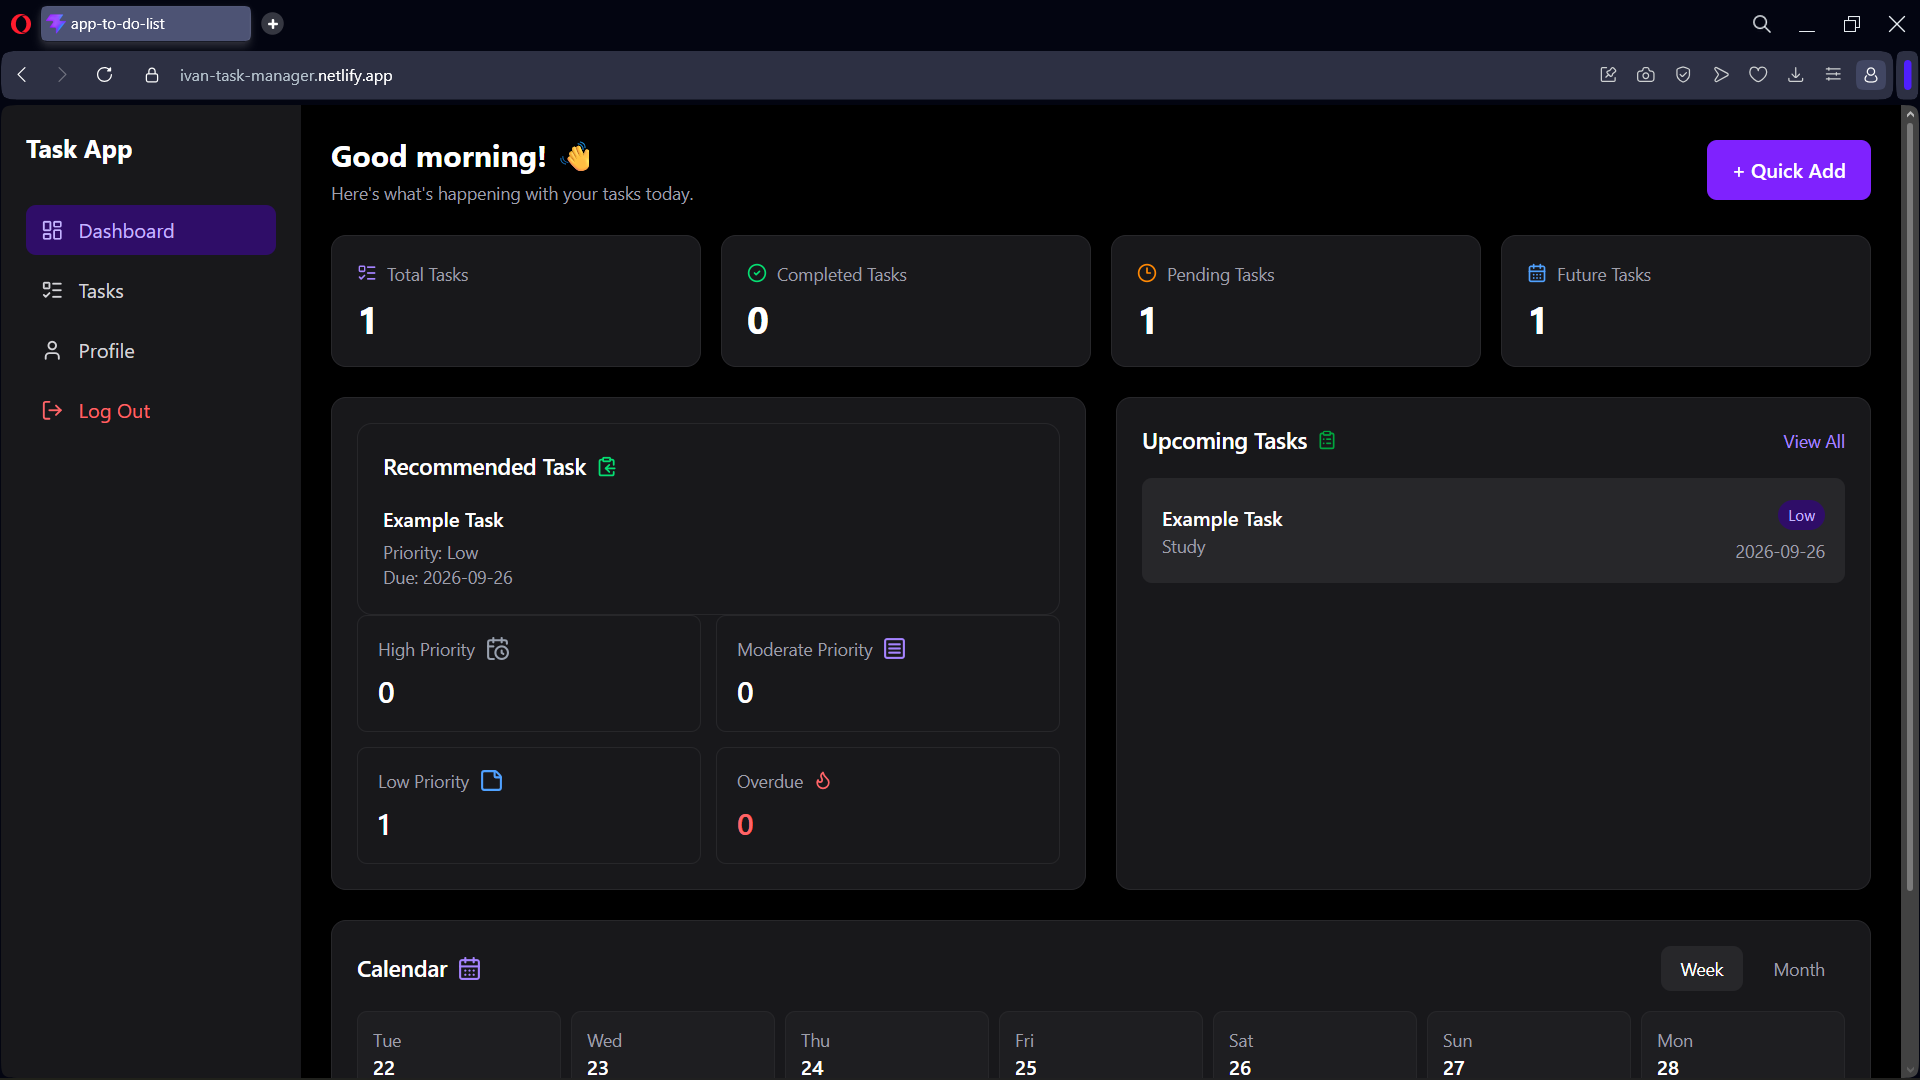
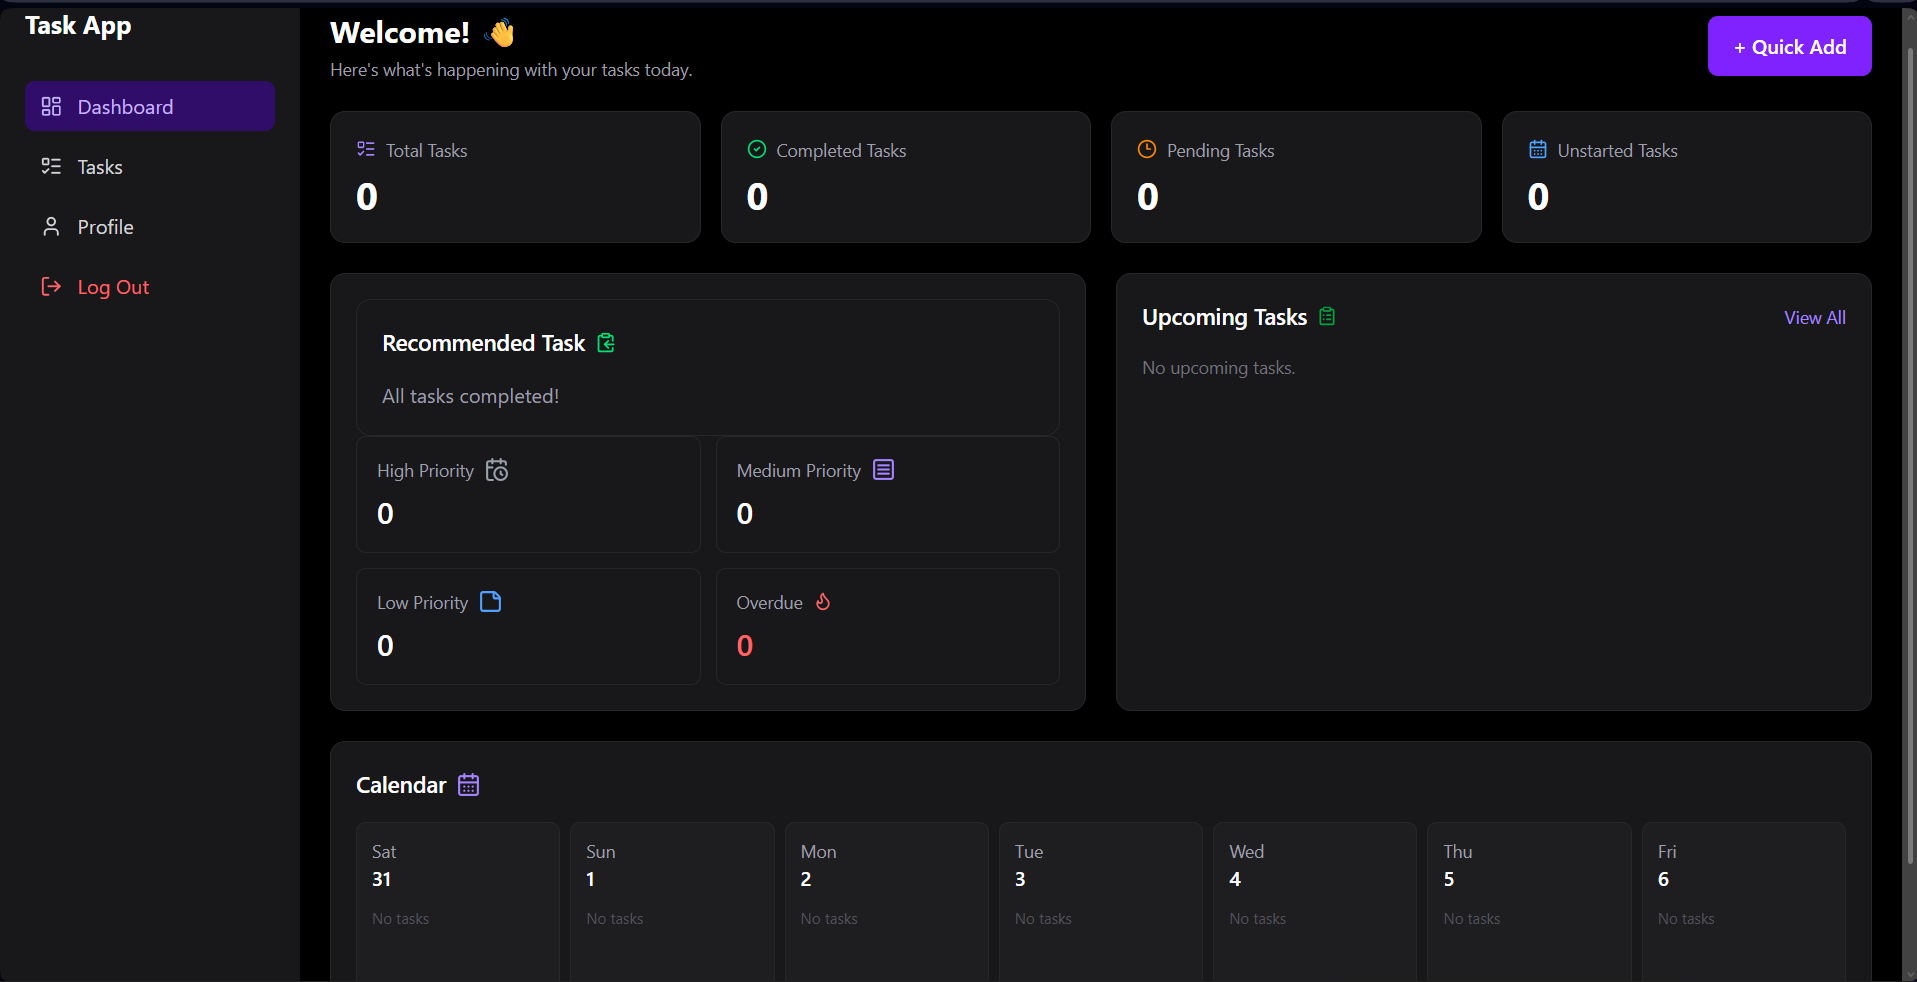
Complete Task Manager project

diff --git a/README.md b/README.md
@@ -4,6 +4,20 @@ A responsive task-management web application built with React and Supabase.
 
 The application allows users to create and manage tasks, track deadlines and statistics, receive priority-based task recommendations, maintain a profile, and securely access their own data across sessions.
 
+## Screenshots
+
+### Dashboard
+![Dashboard](screenshots/dashboard.png)
+
+### Tasks
+![Tasks](screenshots/tasks.png)
+
+### Profile
+![Profile](screenshots/profile.png)
+
+### Login
+![Login](screenshots/log.png)
+
 ## Live Demo
 
 https://ivan-task-manager.netlify.app
